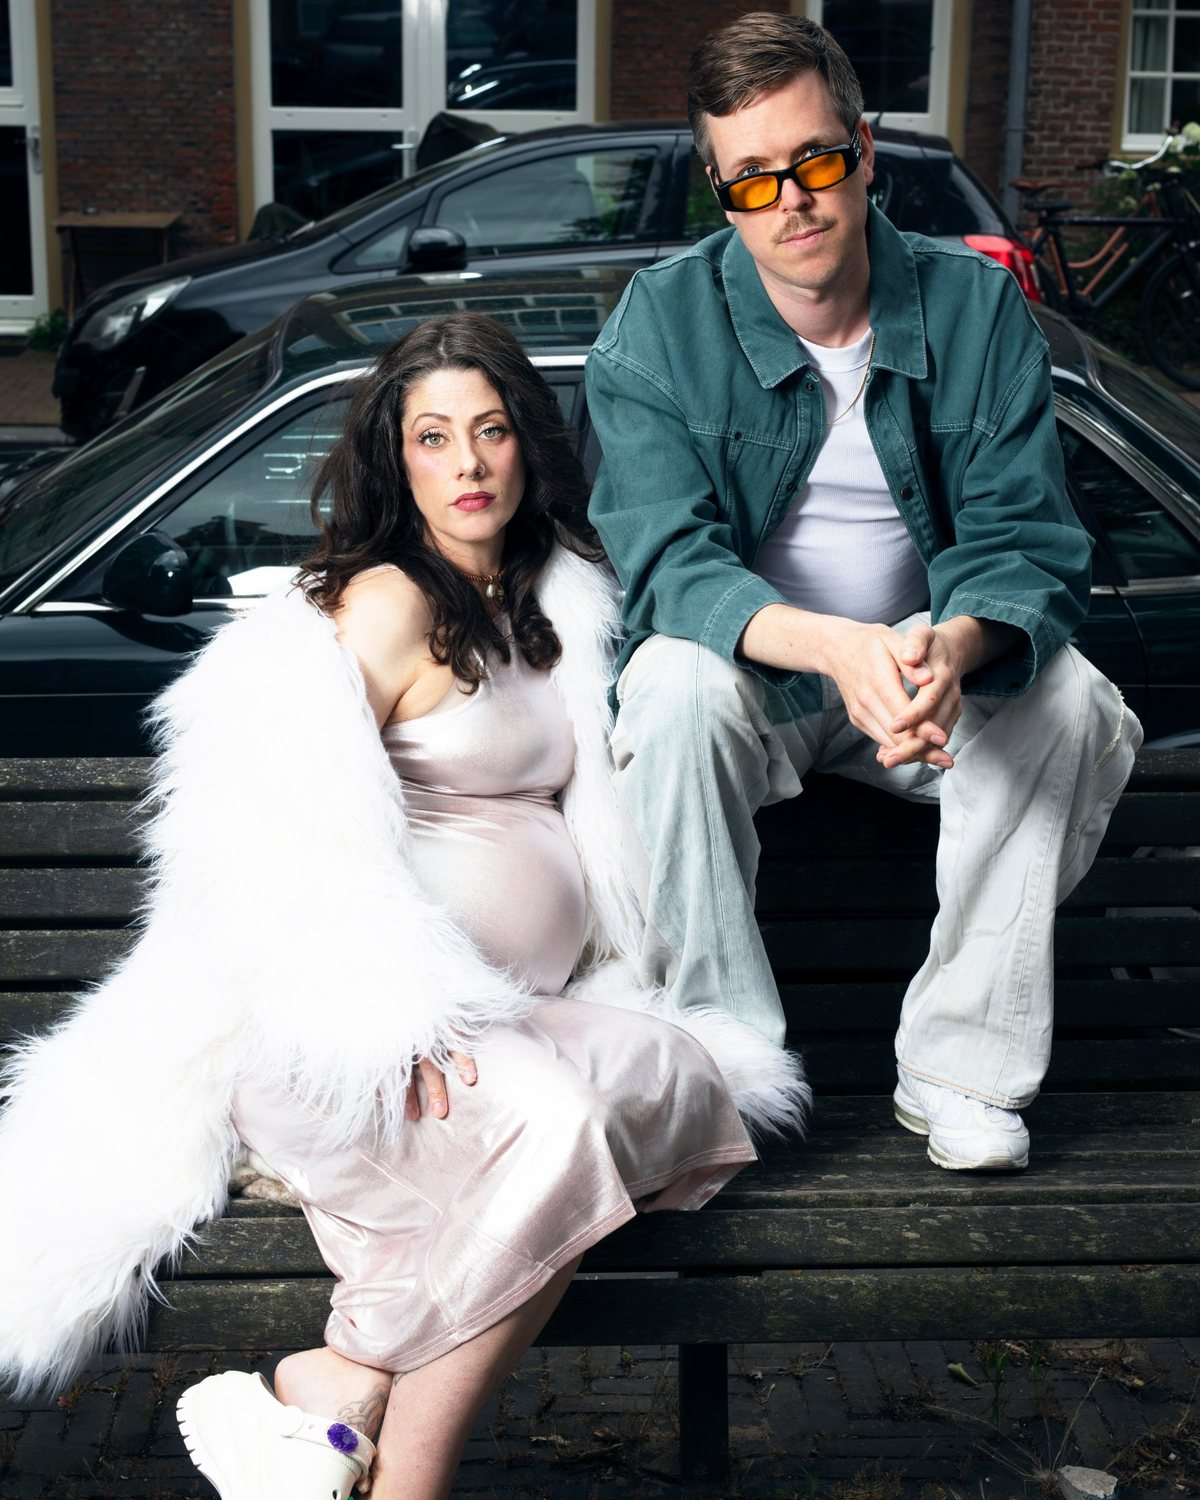
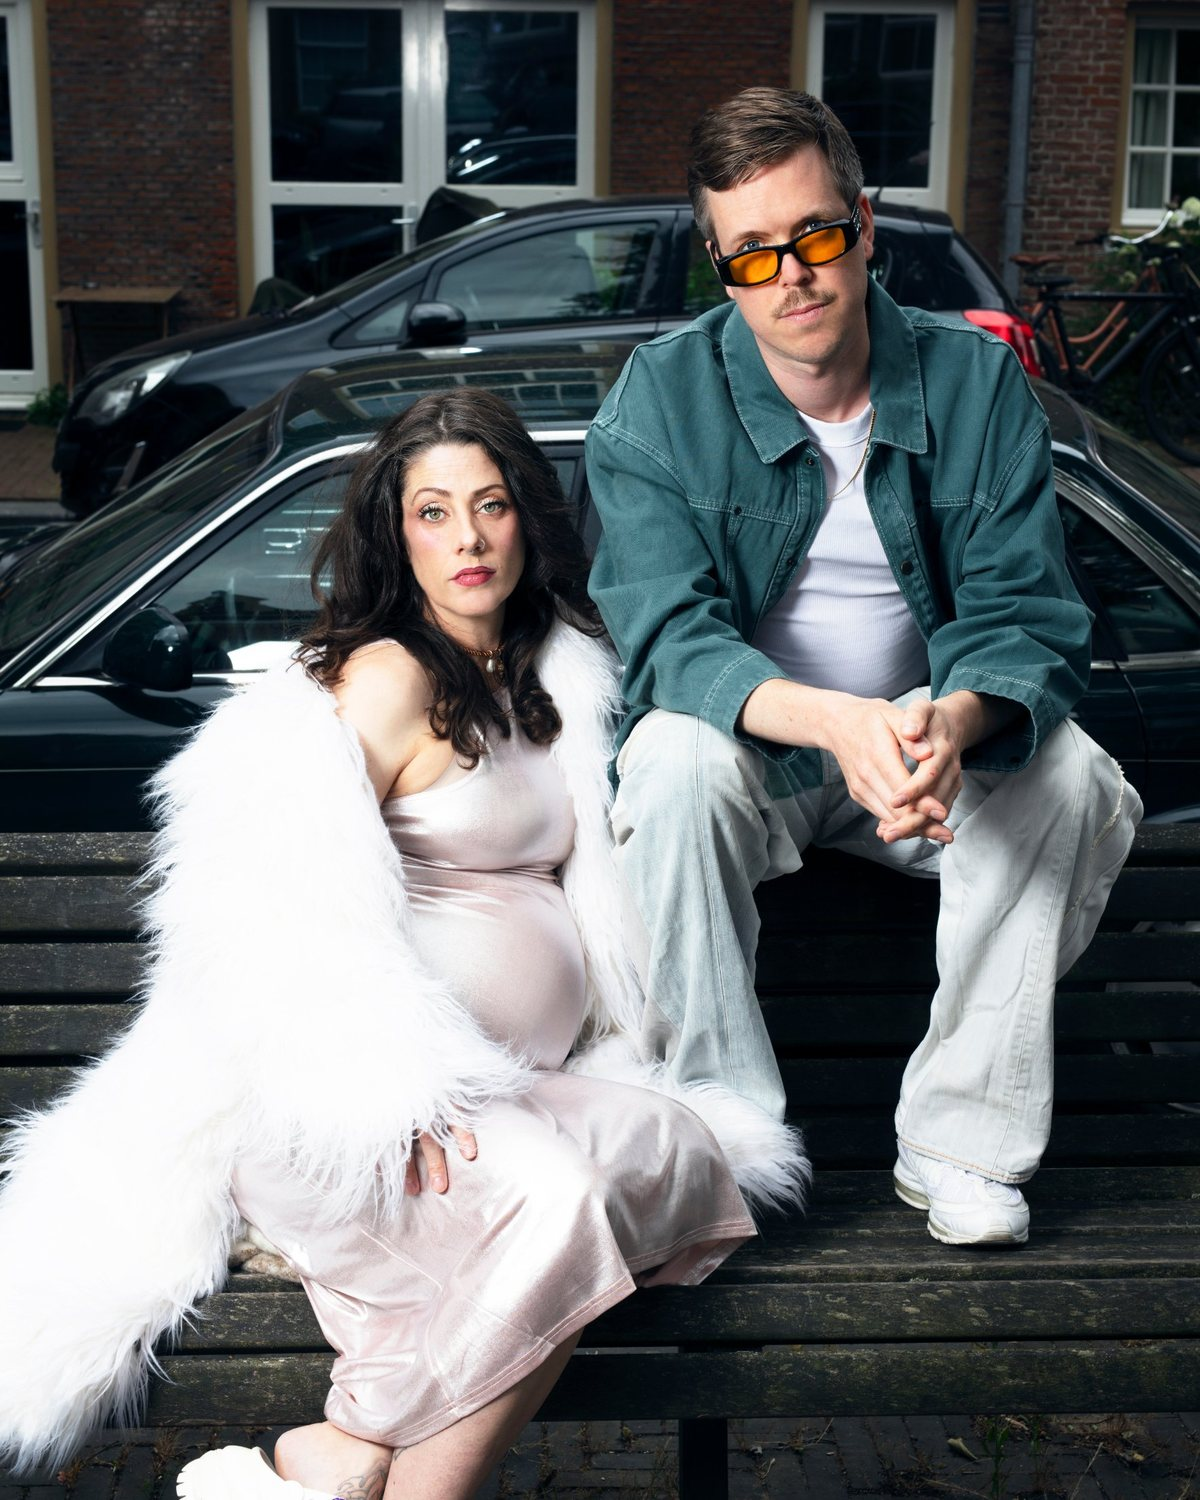
Bankje-foto meer ruimte boven, zwart-zilver-groen als tweede
Claude-Session: https://claude.ai/code/session_01TVcU278kC9PqcFdLKTJBt6

diff --git a/js/photos.js b/js/photos.js
@@ -2,9 +2,9 @@
 // Nieuwe foto toevoegen: zet een staand 4:5-bestand (1200x1500) in img/ en voeg de naam hieronder toe.
 const ABOUT_PHOTOS = [
   { src: 'img/cut-duo-1.jpg', alt: 'Belle Doron and Sebastiaan Dutilh of CUT_ in pink tracksuits in a forest, each holding a white egg' },
+  { src: 'img/cut-duo-4.jpg', alt: 'Belle and Sebastiaan of CUT_ in black and silver coats against a dark, overgrown wall' },
   { src: 'img/cut-duo-2.jpg', alt: 'Belle and Sebastiaan of CUT_ sitting on a bench in front of a parked car' },
   { src: 'img/cut-duo-3.jpg', alt: 'Belle in a fur coat and Sebastiaan in sunglasses on a jetty by the water in Amsterdam' },
-  { src: 'img/cut-duo-4.jpg', alt: 'Belle and Sebastiaan of CUT_ in black and silver coats against a dark, overgrown wall' },
   { src: 'img/cut-duo-5.jpg', alt: 'Belle and Sebastiaan of CUT_ under a viaduct next to a graffiti-covered pillar' }
 ];
 

diff --git a/index.html b/index.html
@@ -166,6 +166,6 @@
   <script src="js/shows.js"></script>
   <script src="js/glyphs.js"></script>
   <script src="js/nav.js"></script>
-  <script src="js/photos.js"></script>
+  <script src="js/photos.js?v=2"></script>
 </body>
 </html>
